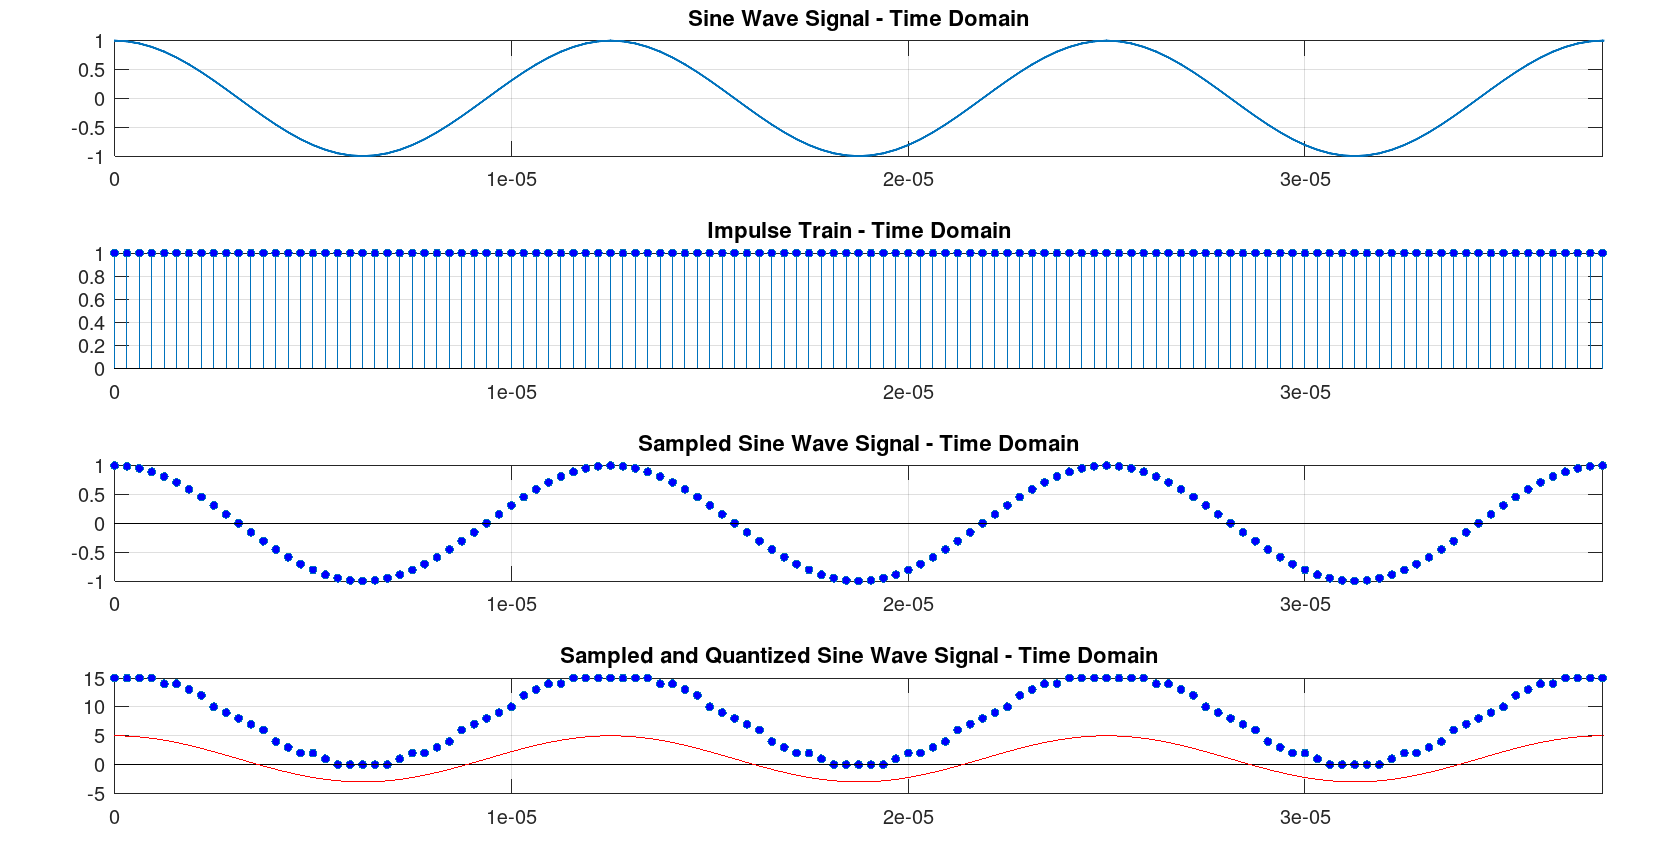
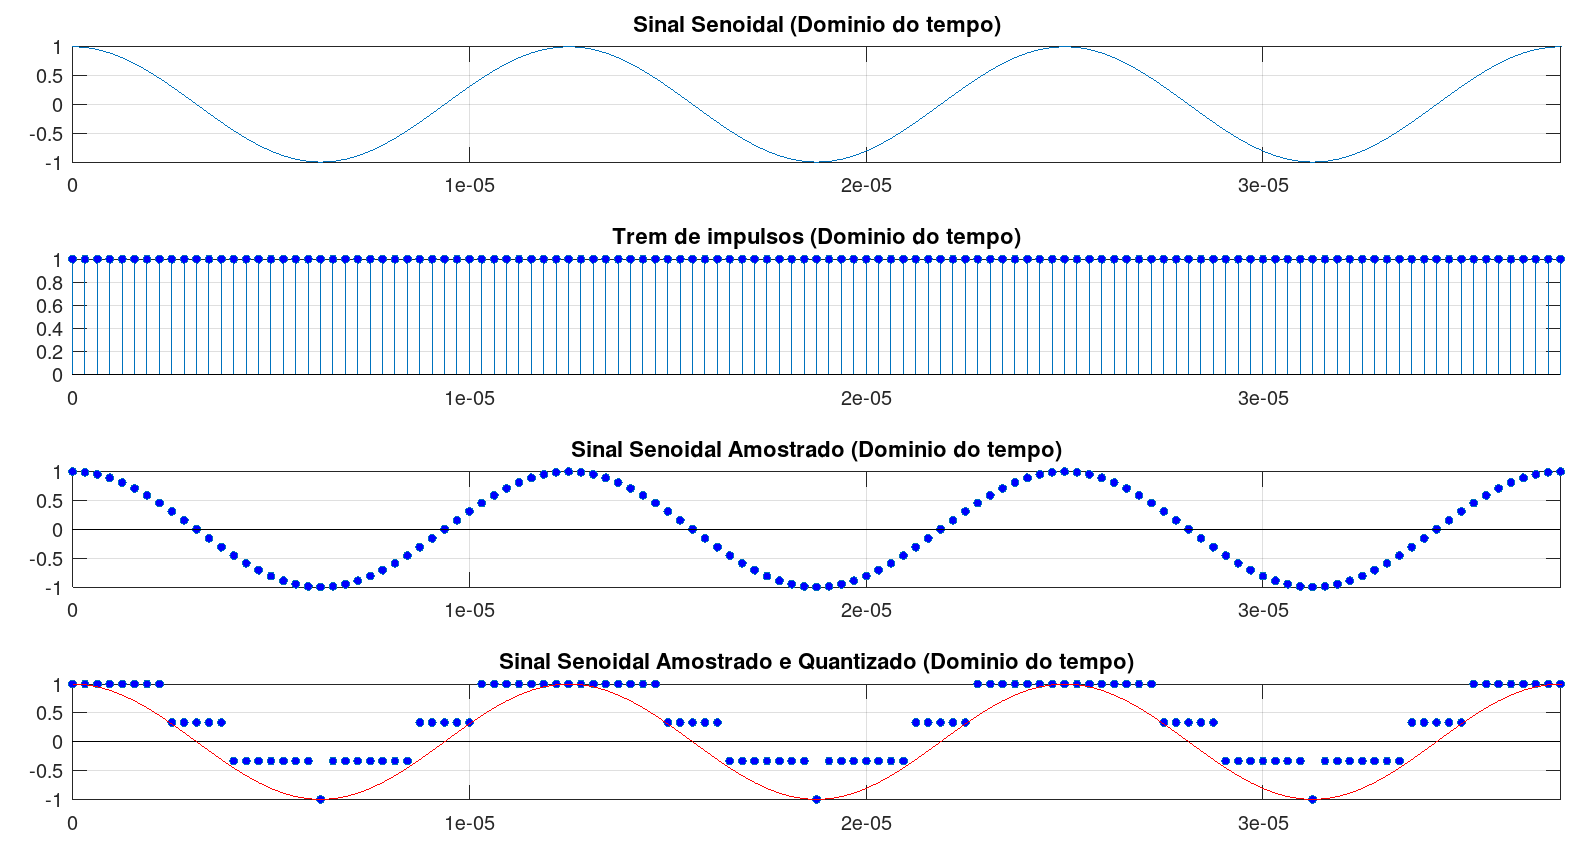
:sparkles: added homework.m

Changed region(s): [[0.0308, 0.0, 0.9849, 0.9777], [0.5848, 0.0917, 0.6156, 0.1222]]

diff --git a/semester-7/COM1/homework5/homework.m b/semester-7/COM1/homework5/homework.m
@@ -32,7 +32,7 @@ impulse_train(mod(t, 1/fs) == 0) = 1;
 signal_sampled = signal .* impulse_train;
 
 % Quantidade de níveis desejada (tirando o 0)
-n=4;
+n=2;
 num_levels = 2^n;
 
 % Gerando os níveis de quantização automaticamente
@@ -126,13 +126,32 @@ transmitted_signal = filtered_signal + transmission_noise;
 
 % Plotando o sinal
 figure(2)
-subplot(311)
+subplot(211)
 plot(t,repeated_signal, 'LineWidth', 2);
 ylim([-0.2, 1.2]);
 xlim([0, 50*T]);
 xlabel('Tempo');
 ylabel('Amplitude');
 title('Sinal Binário como Onda Quadrada');
+grid on;
+
+subplot(212)
+plot(t_super,filtered_signal, 'LineWidth', 2);
+xlim([0, 50*T]);
+ylim([-amplitude*1.2 , amplitude*1.2]);
+xlabel('Tempo');
+ylabel('Amplitude');
+title('Sinal Binário como Onda Quadrada - Superamostrado');
+grid on;
+
+figure(5)
+subplot(311)
+plot(t_super,transmission_noise, 'LineWidth', 2);
+xlim([0, 50*T]);
+ylim([-amplitude*1.2 , amplitude*1.2]);
+xlabel('Tempo');
+ylabel('Amplitude');
+title('Sinal Ruidoso - AWGN');
 grid on;
 
 subplot(312)
@@ -150,7 +169,7 @@ xlim([0, 50*T]);
 ylim([-amplitude*1.2 , amplitude*1.2]);
 xlabel('Tempo');
 ylabel('Amplitude');
-title('Sinal Binário como Onda Quadrada');
+title('Sinal Transmitido no Meio de Transmissão');
 grid on;
 
 % Recepção: 
@@ -165,17 +184,37 @@ received_binary = received_signal > limiar;
 t_received = linspace(0, 1, length(t_super)/n);
 
 % Plotando o sinal
+% Plotting the signal
 figure(3)
-subplot(211)
-plot(t_received, received_signal);
-xlim([0, 50*T]);
-subplot(212)
-stem(t_received, received_binary);
-xlim([0, 50*T]);
 
-num_erro = sum(xor(received_signal, received_binary)) 
-taxa_erro = num_erro/length(t_super)
+subplot(411)
+plot(t_received, received_signal,  'LineWidth', 2);
+xlim([0, 150*T]);
+title('Sinal Recebino no RX - Time Domain');
+grid on;
 
+subplot(412)
+plot(t_received, received_binary,  'LineWidth', 2);
+xlim([0, 150*T]);
+ylim([-0.1 1.2*max(received_binary)]);
+title('Sinal Filtrado no receptor - Time Domain');
+grid on;
+
+subplot(413)
+stem(t_received, received_binary,  'LineWidth', 2);
+xlim([0, 150*T]);
+title('Sinal Interpretado no receptor - Time Domain');
+grid on;
+
+
+subplot(414)
+plot(t,repeated_signal, 'LineWidth', 2);
+ylim([-0.2, 1.2]);
+xlim([0, 150*T]);
+xlabel('Time');
+ylabel('Amplitude');
+title('Sinal PCM Enviado por TX - Time Domain (Para Comparação)');
+grid on;
 
 
 
@@ -198,7 +237,7 @@ subplot(211);
 plot(t_super, filtered_signal, 'LineWidth', 2, 'DisplayName', 'Sinal Original');
 hold on;
 plot(t_received, received_signal_filtered(1:length(t_received)), '--', 'LineWidth', 2, 'DisplayName', 'Sinal Recuperado');
-xlim([0, 50*T]);
+xlim([0, 150*T]);
 ylim([-amplitude*1.2 , amplitude*1.2]);
 xlabel('Tempo');
 ylabel('Amplitude');
@@ -212,7 +251,7 @@ received_analog_signal = received_signal_filtered(1:length(t_received)) * (2*amp
 % Plotando o sinal analógico recuperado
 subplot(212);
 plot(t_received, received_analog_signal, 'LineWidth', 2);
-xlim([0, 50*T]);
+xlim([0, 150*T]);
 xlabel('Tempo');
 ylabel('Amplitude');
 title('Sinal Analógico Recuperado');
